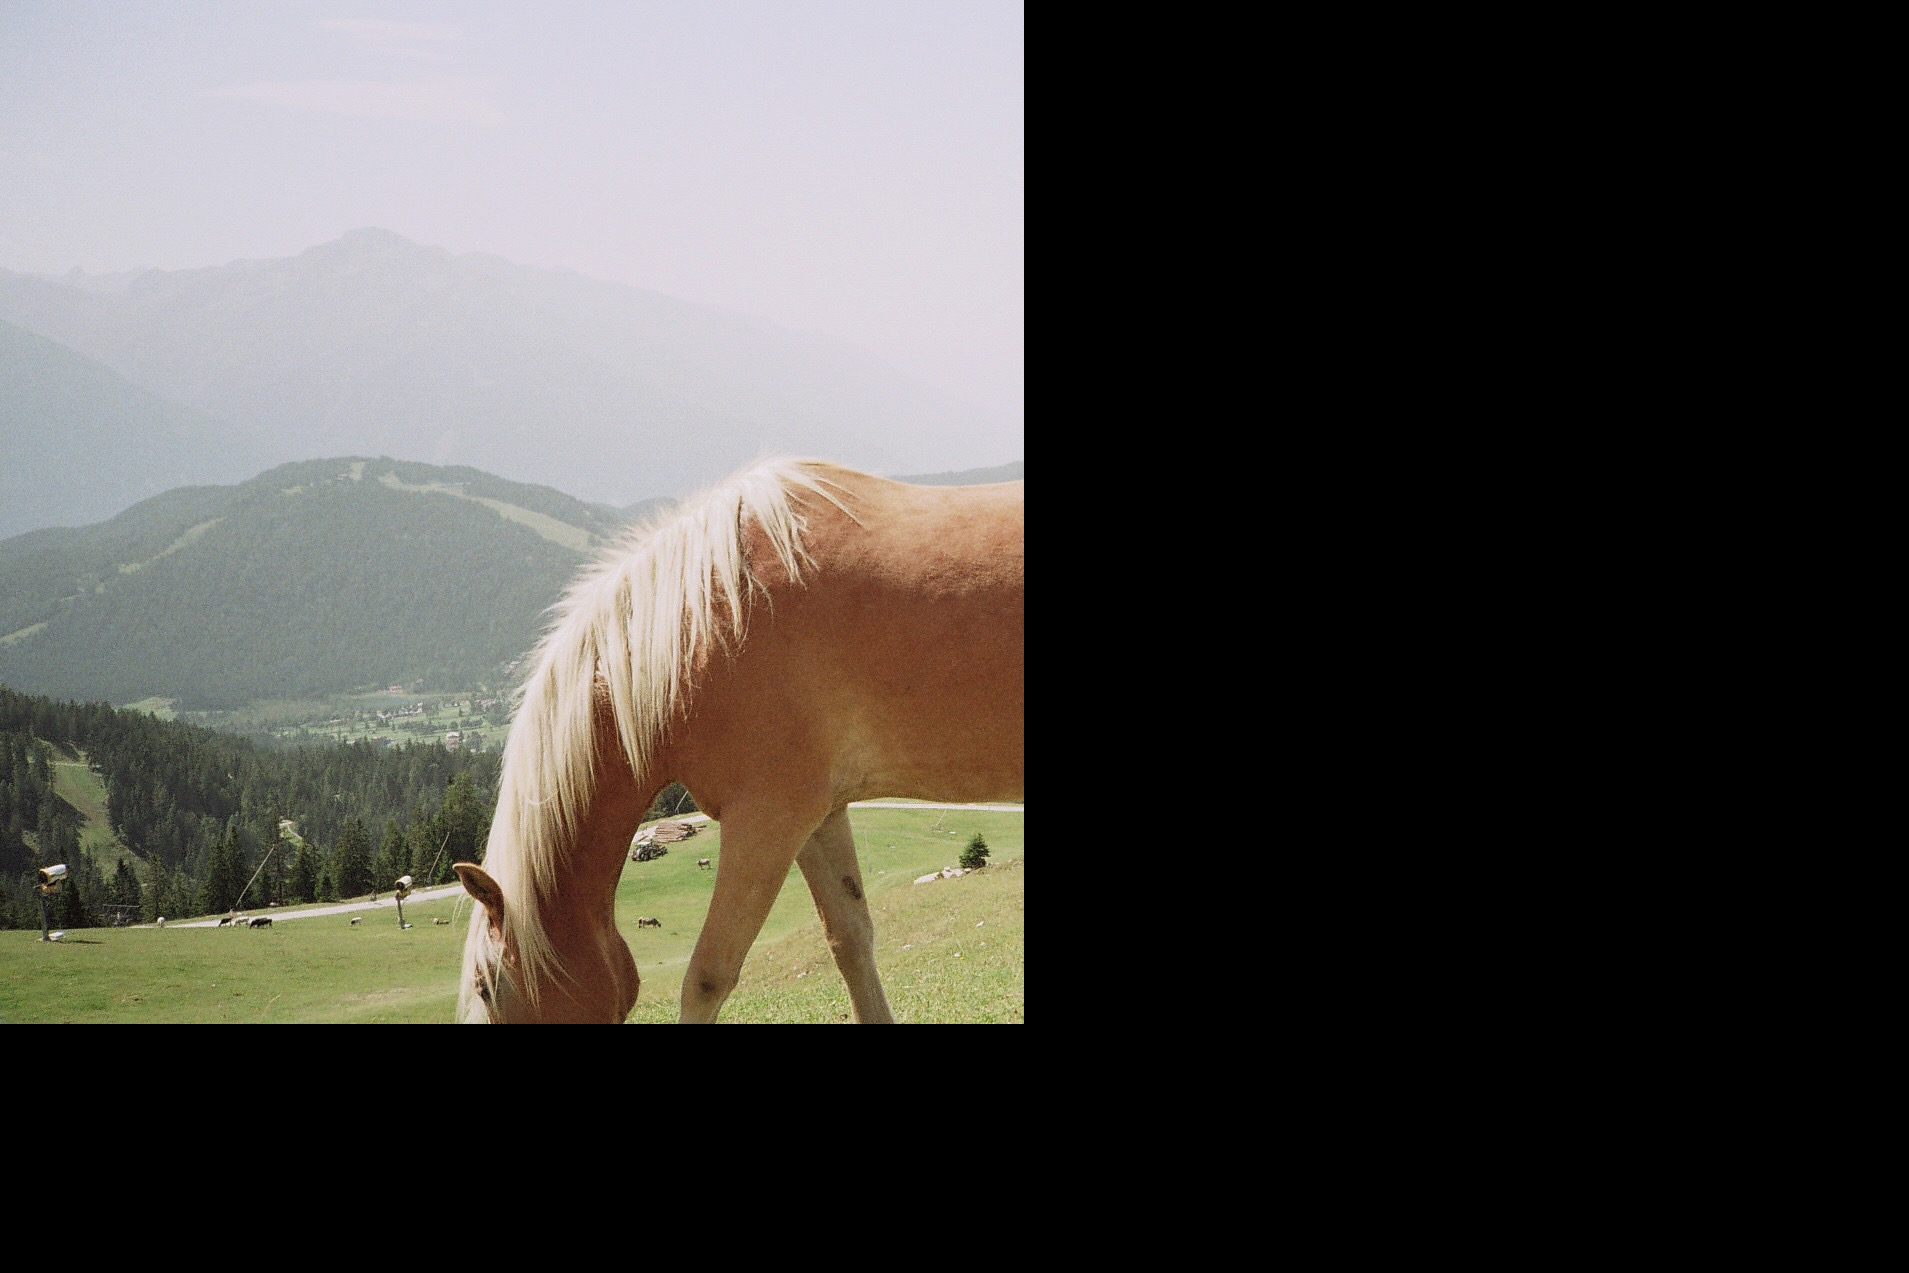
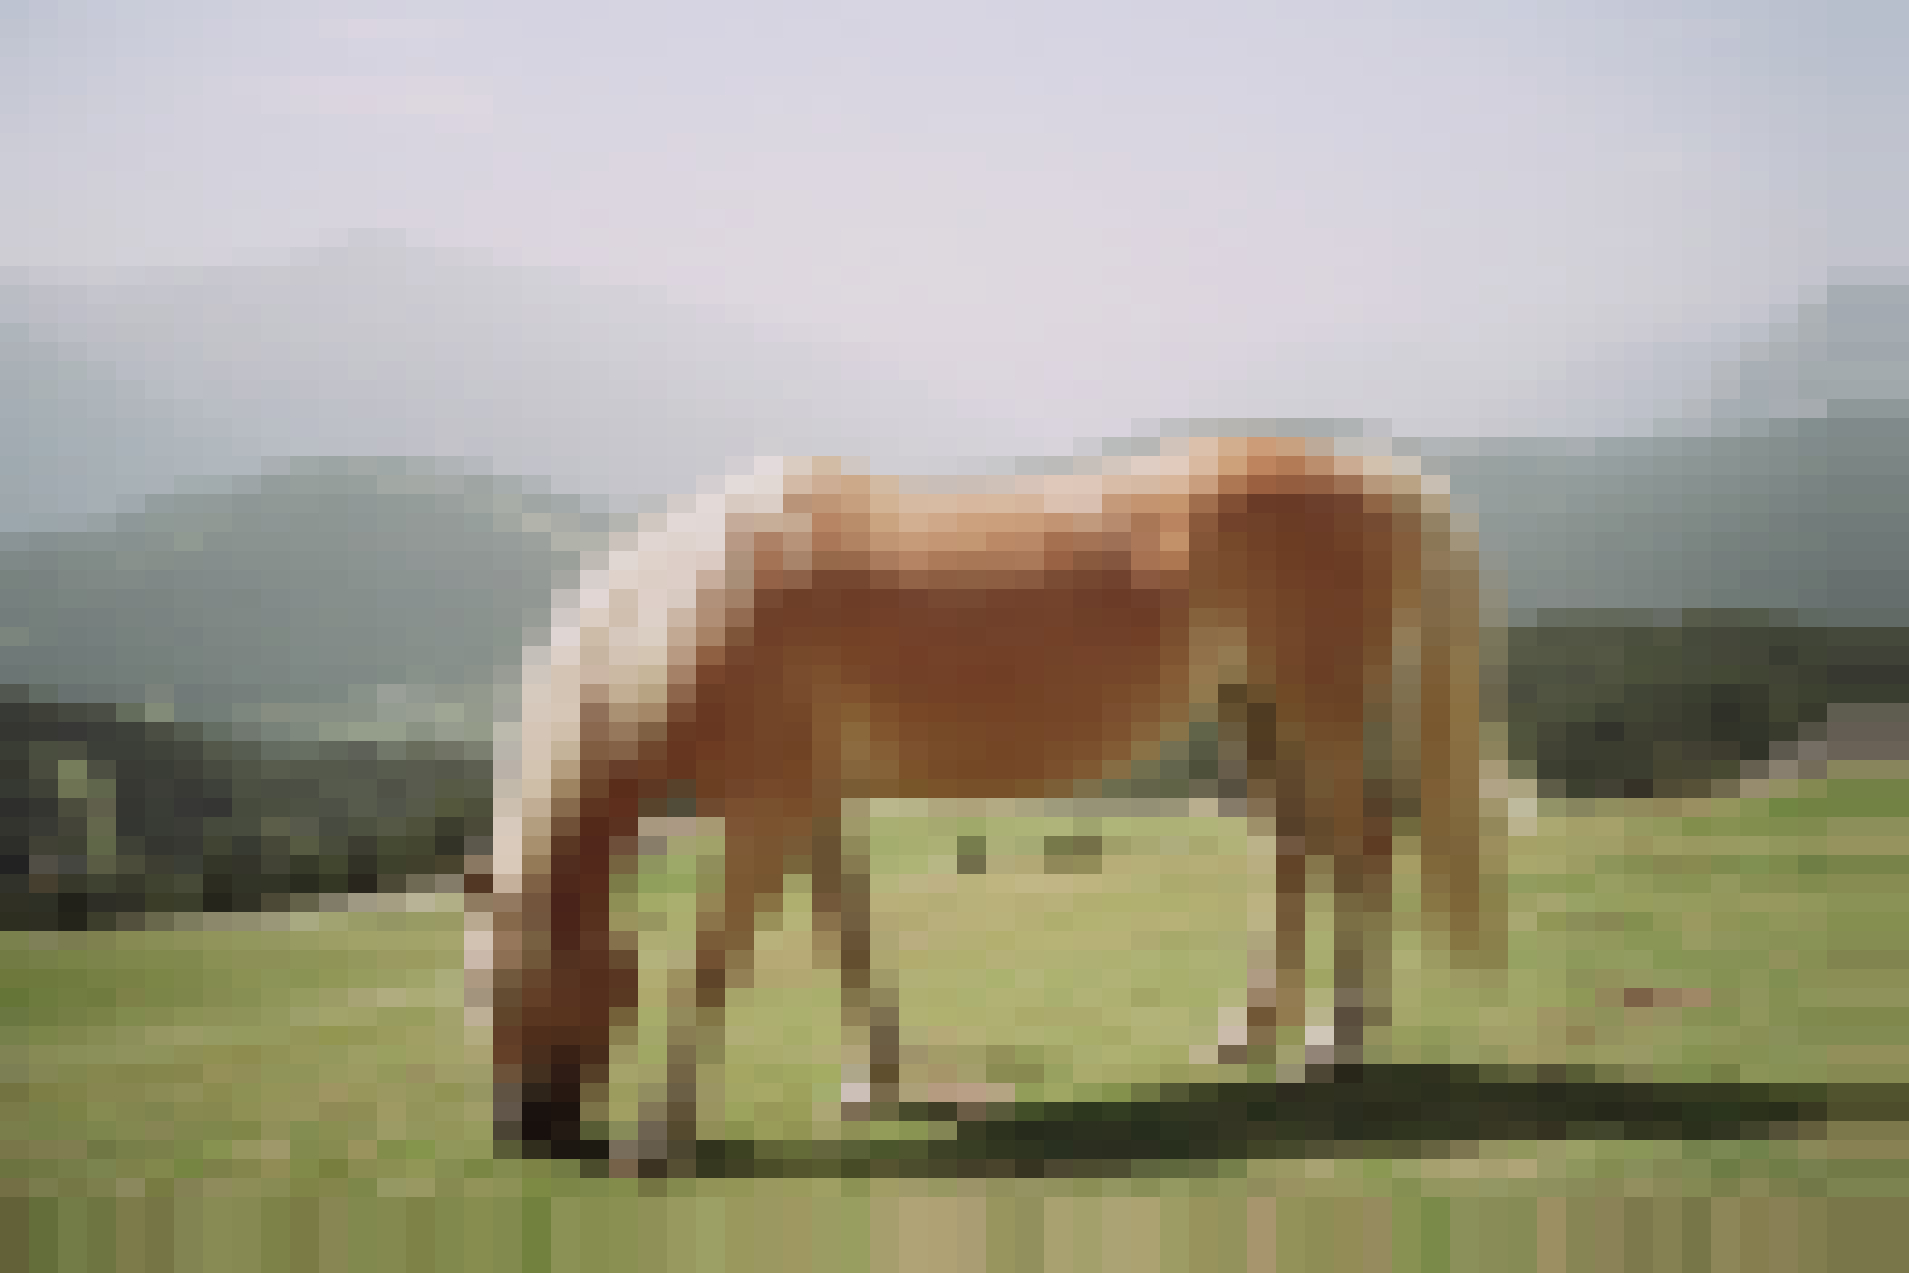
feat: add error handling to interpolation step

diff --git a/src/interpolation.rs b/src/interpolation.rs
@@ -1,0 +1,152 @@
+use std::{
+    convert::Infallible,
+    fmt::{self},
+};
+
+use jpeg_decoder::PixelFormat;
+use thiserror::Error;
+
+#[derive(Debug, Error)]
+pub enum DownsamplingError {
+    ImageMetadataResolve,
+    TargetLargerThanSource(String),
+}
+impl fmt::Display for DownsamplingError {
+    fn fmt(&self, f: &mut fmt::Formatter<'_>) -> fmt::Result {
+        match self {
+            DownsamplingError::TargetLargerThanSource(msg) => write!(f, "{}", msg),
+            DownsamplingError::ImageMetadataResolve => {
+                write!(f, "DownsamplingError::ImageMetadataResolve")
+            }
+        }
+    }
+}
+
+#[derive(Debug, Error)]
+pub enum UpsamplingError {
+    ImageMetadataResolve,
+    SourceLargetThanTarget(String),
+}
+impl fmt::Display for UpsamplingError {
+    fn fmt(&self, f: &mut fmt::Formatter<'_>) -> fmt::Result {
+        match self {
+            UpsamplingError::SourceLargetThanTarget(msg) => write!(f, "{}", msg),
+            UpsamplingError::ImageMetadataResolve => {
+                write!(f, "DownsamplingError::ImageMetadataResolve")
+            }
+        }
+    }
+}
+pub fn down_sample_average_area(
+    src_pixels: Vec<u8>,
+    src_width: usize,
+    src_height: usize,
+    target_height: usize,
+    target_width: usize,
+    pixel_format: PixelFormat,
+) -> Result<Vec<u8>, DownsamplingError> {
+    /*
+     * Uses average area downsampling interpolation
+     *
+     * Given kxk pixel block
+     * Block = [
+     * [R₁,G₁,B₁], [R₂,G₂,B₂], ..., [Rₖ,Gₖ,Bₖ],
+     * ...
+     * ]
+     *
+     * Compute average
+     * R_avg = (R₁ + R₂ + ... + Rₖ) / (k * k)
+     * G_avg = ...
+     * B_avg = ...
+     *
+     * P_avg = [R_avg, G_avg, B_avg]
+     */
+
+    if target_height > src_height || target_width > src_width {
+        return Err(DownsamplingError::TargetLargerThanSource(format!(
+            "Target Height {} > Source Height {}. For the downsampling to be reliable the target resolution has to be lower than the source resolution",
+            target_height, src_height,
+        )));
+    }
+    if target_width > src_width {
+        return Err(DownsamplingError::TargetLargerThanSource(format!(
+            "Target Width {} > Source Width {}. For the downsampling to be reliable the target resolution has to be lower than the source resolution",
+            target_width, src_width,
+        )));
+    }
+    let pixel_bytes: usize = pixel_format
+        .pixel_bytes()
+        .try_into()
+        .map_err(|_e: Infallible| DownsamplingError::ImageMetadataResolve)?;
+
+    let block_size_x = src_width / target_width;
+    let block_size_y = src_height / target_height;
+
+    let mut target_pixels: Vec<u8> = Vec::with_capacity(target_height * target_width * pixel_bytes);
+    for block_y in 0..target_height {
+        for block_x in 0..target_width {
+            let mut r_sum: usize = 0;
+            let mut g_sum: usize = 0;
+            let mut b_sum: usize = 0;
+            for y in 0..block_size_y {
+                for x in 0..block_size_x {
+                    let pixel_x = block_x * block_size_x + x;
+                    let pixel_y = block_y * block_size_y + y;
+                    let idx = (pixel_y * src_width + pixel_x) * pixel_bytes;
+
+                    r_sum += src_pixels[idx] as usize;
+                    g_sum += src_pixels[idx + 1] as usize;
+                    b_sum += src_pixels[idx + 2] as usize;
+                }
+            }
+            // compute the average
+            let count = block_size_x * block_size_y;
+            target_pixels.push((r_sum / &count) as u8);
+            target_pixels.push((g_sum / &count) as u8);
+            target_pixels.push((b_sum / &count) as u8);
+        }
+    }
+
+    Ok(target_pixels)
+}
+
+pub fn up_sample_nearest_neighbor(
+    src_pixels: Vec<u8>,
+    src_height: usize,
+    src_width: usize,
+    target_height: usize,
+    target_width: usize,
+    pixel_format: PixelFormat,
+) -> Result<Vec<u8>, UpsamplingError> {
+    let pixel_bytes: usize = pixel_format
+        .pixel_bytes()
+        .try_into()
+        .map_err(|_e: Infallible| UpsamplingError::ImageMetadataResolve)?;
+    let mut target_pixels: Vec<u8> = vec![0u8; target_width * target_height * pixel_bytes];
+
+    if target_pixels.len() <= src_pixels.len() {
+        return Err(UpsamplingError::SourceLargetThanTarget(format!(
+            "The length of the source pixel vector is {} and the length of the target pixel vector is {}. For a reliable upsampling the target pixel vector needs to be greater.",
+            src_pixels.len(),
+            target_pixels.len(),
+        )));
+    }
+    let scale_x = target_width / src_width;
+    let scale_y = target_height / src_height;
+    for y in 0..target_height {
+        for x in 0..target_width {
+            // clamp the coords so no overflow at the edges occurs.
+            let original_x = (((x / scale_x) as f64).floor() as usize).min(src_width - 1);
+            let original_y = (((y / scale_y) as f64).floor() as usize).min(src_height - 1);
+
+            let src_idx = (original_y * src_width + original_x) * pixel_bytes;
+            let out_idx = (y * target_width + x) * pixel_bytes;
+
+            target_pixels[out_idx] = src_pixels[src_idx];
+            target_pixels[out_idx + 1] = src_pixels[src_idx + 1];
+            target_pixels[out_idx + 2] = src_pixels[src_idx + 2];
+        }
+    }
+
+    Ok(target_pixels)
+}

diff --git a/src/main.rs b/src/main.rs
@@ -1,50 +1,55 @@
 mod cli;
 mod decoder;
 mod encoder;
-mod transformer;
+mod interpolation;
 
 use clap::Parser;
 use cli::Args;
 use decoder::decode;
 use encoder::encode;
-use transformer::{down_sample, up_sample};
+use interpolation::{down_sample_average_area, up_sample_nearest_neighbor};
+use thiserror::Error;
 
-fn main() {
+#[derive(Debug, Error)]
+pub enum UserFacingError {
+    #[error("Failed to transform image: {0}")]
+    DownsamplingError(#[from] interpolation::DownsamplingError),
+    #[error("Failed to transform image: {0}")]
+    UpsamplingError(#[from] interpolation::UpsamplingError),
+    #[error("Unknown error: {0}")]
+    Other(String),
+}
+
+fn main() -> Result<(), UserFacingError> {
     let args = Args::parse();
-
-    println!("Settings");
-    println!("Input path: {}", args.input.display());
-    println!("Output path: {}", args.output.display());
-    println!("Virtual resolution: {}", args.resolution);
-    println!("Bit depth: {}", args.bit_depth);
 
     // Decode image file
     let (pixel_vec, metadata) = decode(&args.input);
-    println!("Metadata {:?}", metadata);
     // Transform
-    let downsampled_pixel_vec: Vec<u8> = down_sample(
+    let downsampled_pixel_vec: Vec<u8> = down_sample_average_area(
         pixel_vec,
         metadata.width.into(),
         metadata.height.into(),
         args.resolution.into(),
         args.resolution.into(),
         metadata.pixel_format,
-    );
+    )?;
 
-    let upsampled_pixel_vec: Vec<u8> = up_sample(
+    let upsampled_pixel_vec: Vec<u8> = up_sample_nearest_neighbor(
         downsampled_pixel_vec,
         args.resolution.into(),
         args.resolution.into(),
         metadata.height.into(),
         metadata.width.into(),
         metadata.pixel_format,
-    );
+    )?;
 
-    // encode to image file
+    // encode to back image file
     encode(
         upsampled_pixel_vec,
         metadata.height,
         metadata.width,
         &args.output,
     );
+    Ok(())
 }
